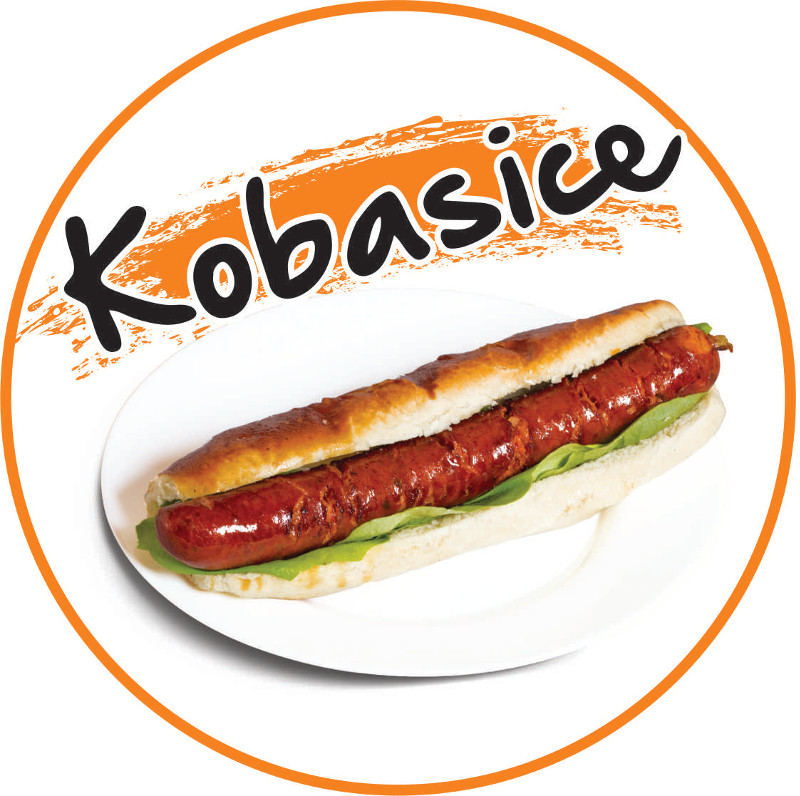
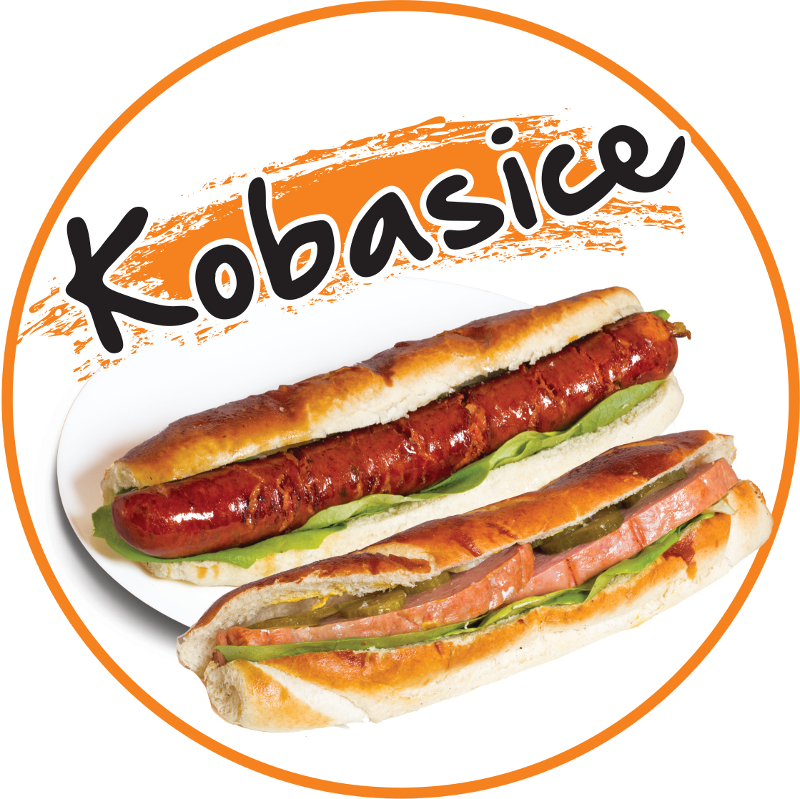
izmene slika 2

diff --git a/public/css/custom.css b/public/css/custom.css
@@ -841,8 +841,11 @@ nav {
   font-size: 36px !important;
 }
 .new-product {
-  margin-top: 40px;
-  margin-bottom: 40px;
+  display: inline-block;
+  width: 300px !important;
+  height: 300px !important;
+  float: right;
+  margin-top: 20px;
 }
 @media all and (max-width:768px) {
   .food-img {
@@ -851,6 +854,10 @@ nav {
   }
   .food-info {
     padding-bottom: 36px;
+  }
+  .new-product {
+    float: none;
+    margin: 40px auto;
   }
 }
 

diff --git a/index.php b/index.php
@@ -137,7 +137,7 @@
                                           </p>
                                           <p class="new-cena"> Samo </p><p class="new-cifra">190</p><p class="new-cena"> dinara! </p>
                                         </div>
-                                        <img class="new-product one-half column u-max-full-width" src="public/images/omlet.png"/>
+                                        <img class="new-product one-half column" src="public/images/leberkase.png"/>
                                       </div>
                                     </div>
                                   </div>

diff --git a/meni.php b/meni.php
@@ -277,7 +277,7 @@
   <div class="container">
     <div class="row">
       <div class="one-half column slika">
-        <img class="meni-kobaje" src="public/images/krug4.png" />
+        <img class="meni-kobaje" src="public/images/krug7.png" />
       </div>
       <div class="container">
         <div class="row">
